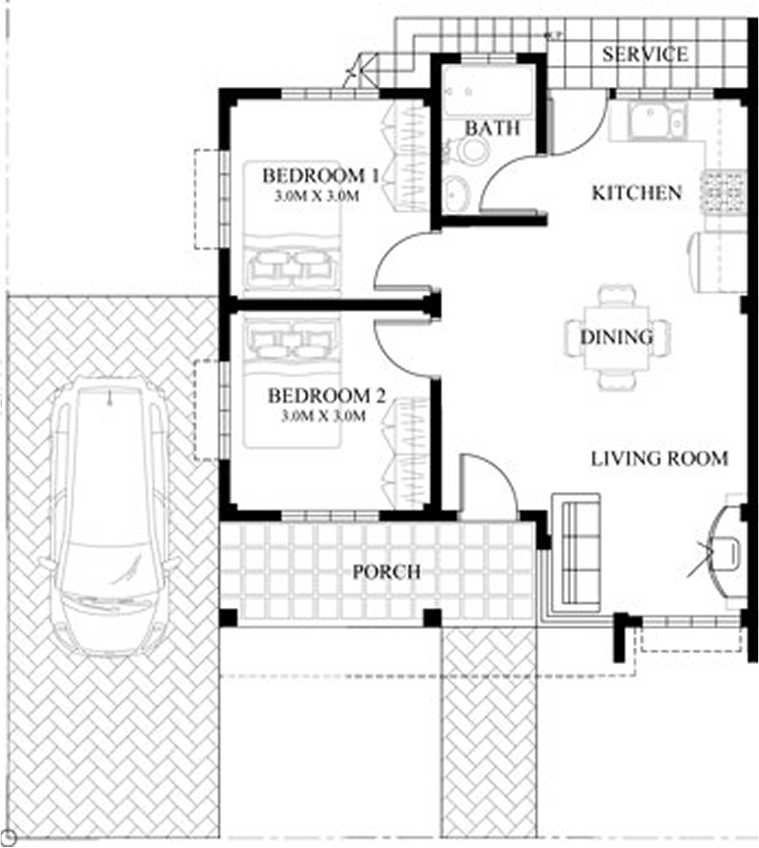
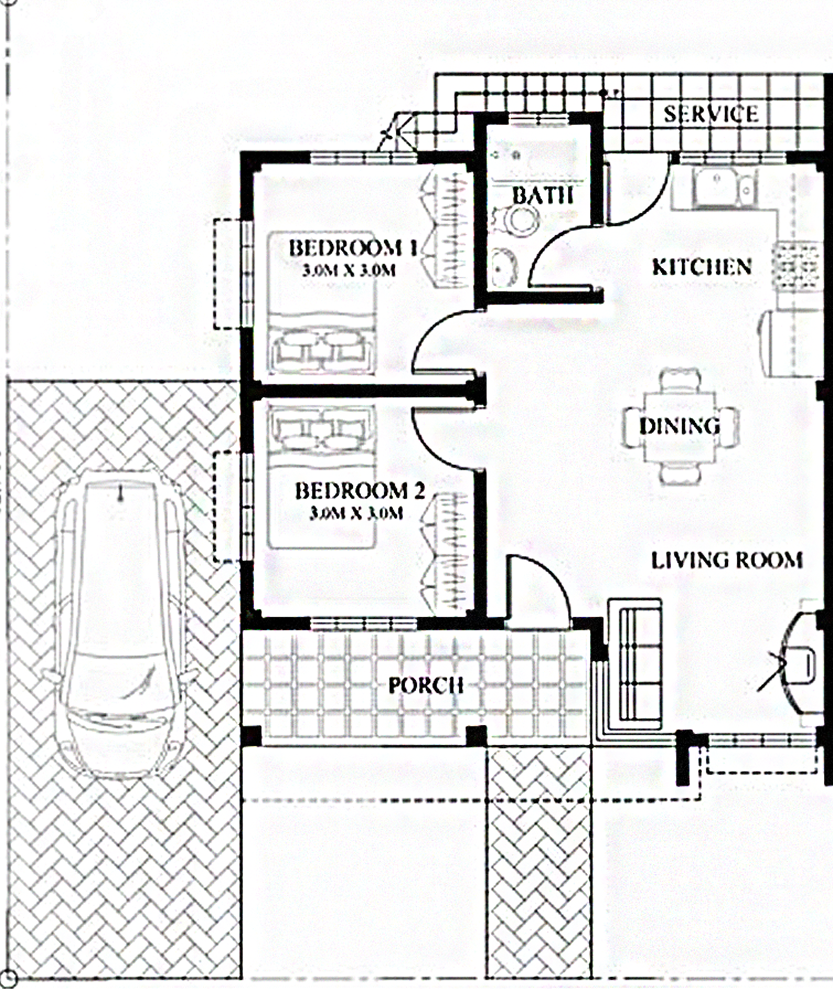
change duplex1 image and re-map the image coordinates
change duplex1 image and re-map the image coordinates

Changed region(s): [[0.0, 0.0, 1.0, 1.0], [0.7273, 0.3373, 0.9091, 0.4906], [0.0, 0.0, 0.0303, 0.092]]

diff --git a/main.py b/main.py
@@ -1640,14 +1640,14 @@ class Api:
 				result = """
 				<img src='assets/blueprints/duplex1.png' usemap="#image-map" style="width:auto; height:auto; margin:auto"> <br>
 				<map name="image-map" style="display:none">
-				    <area id="duplex1_service" class="droptarget" data-bs-toggle="modal" data-bs-target="#duplex1_serviceModal" alt="service" title="Click to View Service" coords="551,23,743,82" shape="rect">
-				    <area id="duplex1_bathroom" class="droptarget" data-bs-toggle="modal" data-bs-target="#duplex1_bathroomModal" alt="bathroom" title="Click to View Bathroom" coords="446,57,538,212" shape="rect">
-				    <area id="duplex1_bedroom1" class="droptarget" data-bs-toggle="modal" data-bs-target="#duplex1_bedroom1Modal" alt="bedroom1" title="Click to View Bedroom 1" coords="233,94,428,293" shape="rect">
-				    <area id="duplex1_bedroom2" class="droptarget" data-bs-toggle="modal" data-bs-target="#duplex1_bedroom2Modal" alt="bedroom2" title="Click to View Bedroom 2" coords="236,313,427,507" shape="rect">
-				    <area id="duplex1_kitchen" class="droptarget" data-bs-toggle="modal" data-bs-target="#duplex1_kitchenModal" alt="kitchen" title="Click to View Kitchen" coords="552,94,748,219" shape="rect">
-				    <area id="duplex1_dining" class="droptarget" data-bs-toggle="modal" data-bs-target="#duplex1_diningModal" alt="dining" title="Click to View Dining" coords="447,227,744,398" shape="rect">
-				    <area id="duplex1_living_room" class="droptarget" data-bs-toggle="modal" data-bs-target="#duplex1_living_roomModal" alt="living room" title="Click to View Living Room" coords="445,413,738,419,743,606,546,611,536,518,448,506" shape="poly">
-				    <area id="duplex1_porch" class="droptarget" data-bs-toggle="modal" data-bs-target="#duplex1_porchModal" alt="porch" title="Click to View Porch" coords="225,529,519,615" shape="rect">
+				    <area id="duplex1_service" class="droptarget" data-bs-toggle="modal" data-bs-target="#duplex1_serviceModal" alt="service" title="Click to View Service" coords="602,82,822,147" shape="rect">
+				    <area id="duplex1_bathroom" class="droptarget" data-bs-toggle="modal" data-bs-target="#duplex1_bathroomModal" alt="bathroom" title="Click to View Bathroom" coords="490,128,588,285" shape="rect">
+				    <area id="duplex1_bedroom1" class="droptarget" data-bs-toggle="modal" data-bs-target="#duplex1_bedroom1Modal" alt="bedroom1" title="Click to View Bedroom 1" coords="256,167,471,378" shape="rect">
+				    <area id="duplex1_bedroom2" class="droptarget" data-bs-toggle="modal" data-bs-target="#duplex1_bedroom2Modal" alt="bedroom2" title="Click to View Bedroom 2" coords="259,401,467,612" shape="rect">
+				    <area id="duplex1_kitchen" class="droptarget" data-bs-toggle="modal" data-bs-target="#duplex1_kitchenModal" alt="kitchen" title="Click to View Kitchen" coords="607,163,822,348" shape="rect">
+				    <area id="duplex1_dining" class="droptarget" data-bs-toggle="modal" data-bs-target="#duplex1_diningModal" alt="dining" title="Click to View Dining" coords="490,362,822,480" shape="rect">
+				    <area id="duplex1_living_room" class="droptarget" data-bs-toggle="modal" data-bs-target="#duplex1_living_roomModal" alt="living room" title="Click to View Living Room" coords="491,508,822,507,823,735,598,736,591,616,490,613" shape="poly">
+				    <area id="duplex1_porch" class="droptarget" data-bs-toggle="modal" data-bs-target="#duplex1_porchModal" alt="porch" title="Click to View Porch" coords="246,633,586,741" shape="rect">
 				</map>
 
 				<!-- Modal for Duplex1 Service -->
